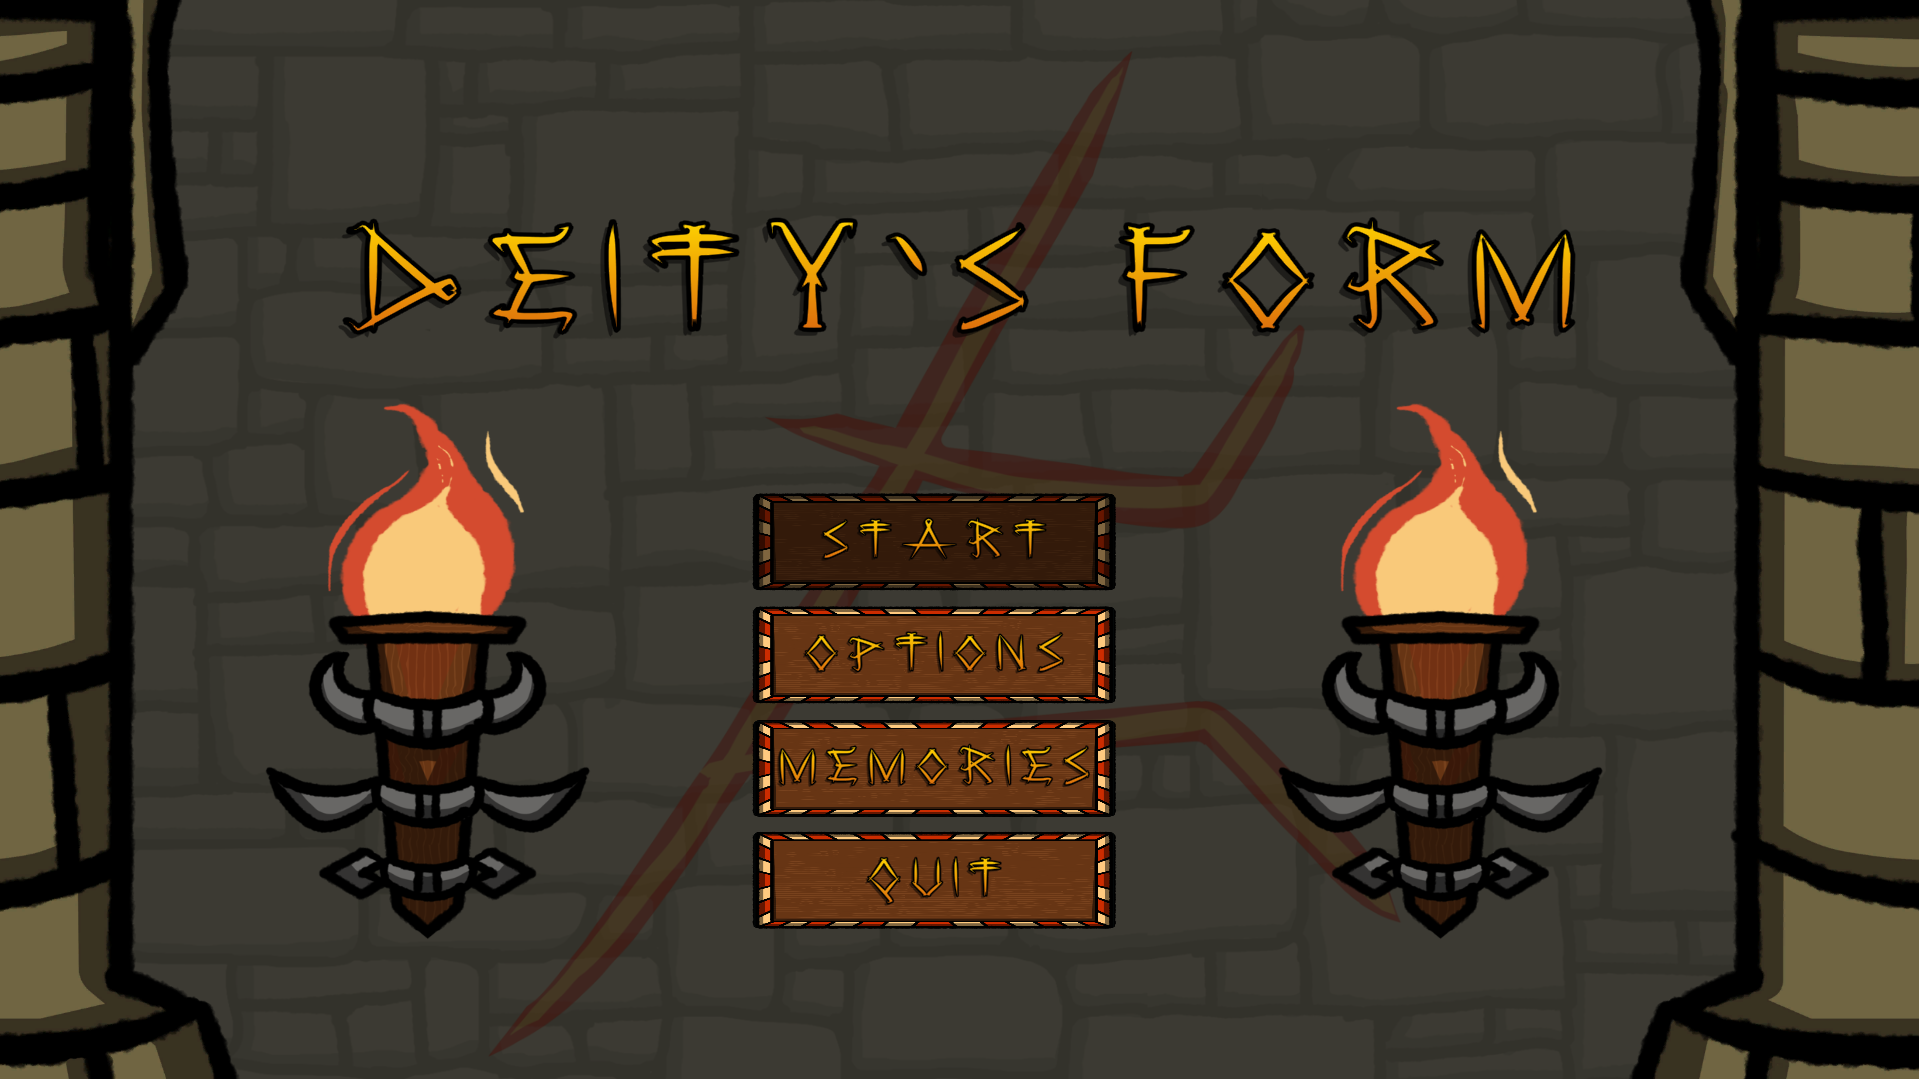
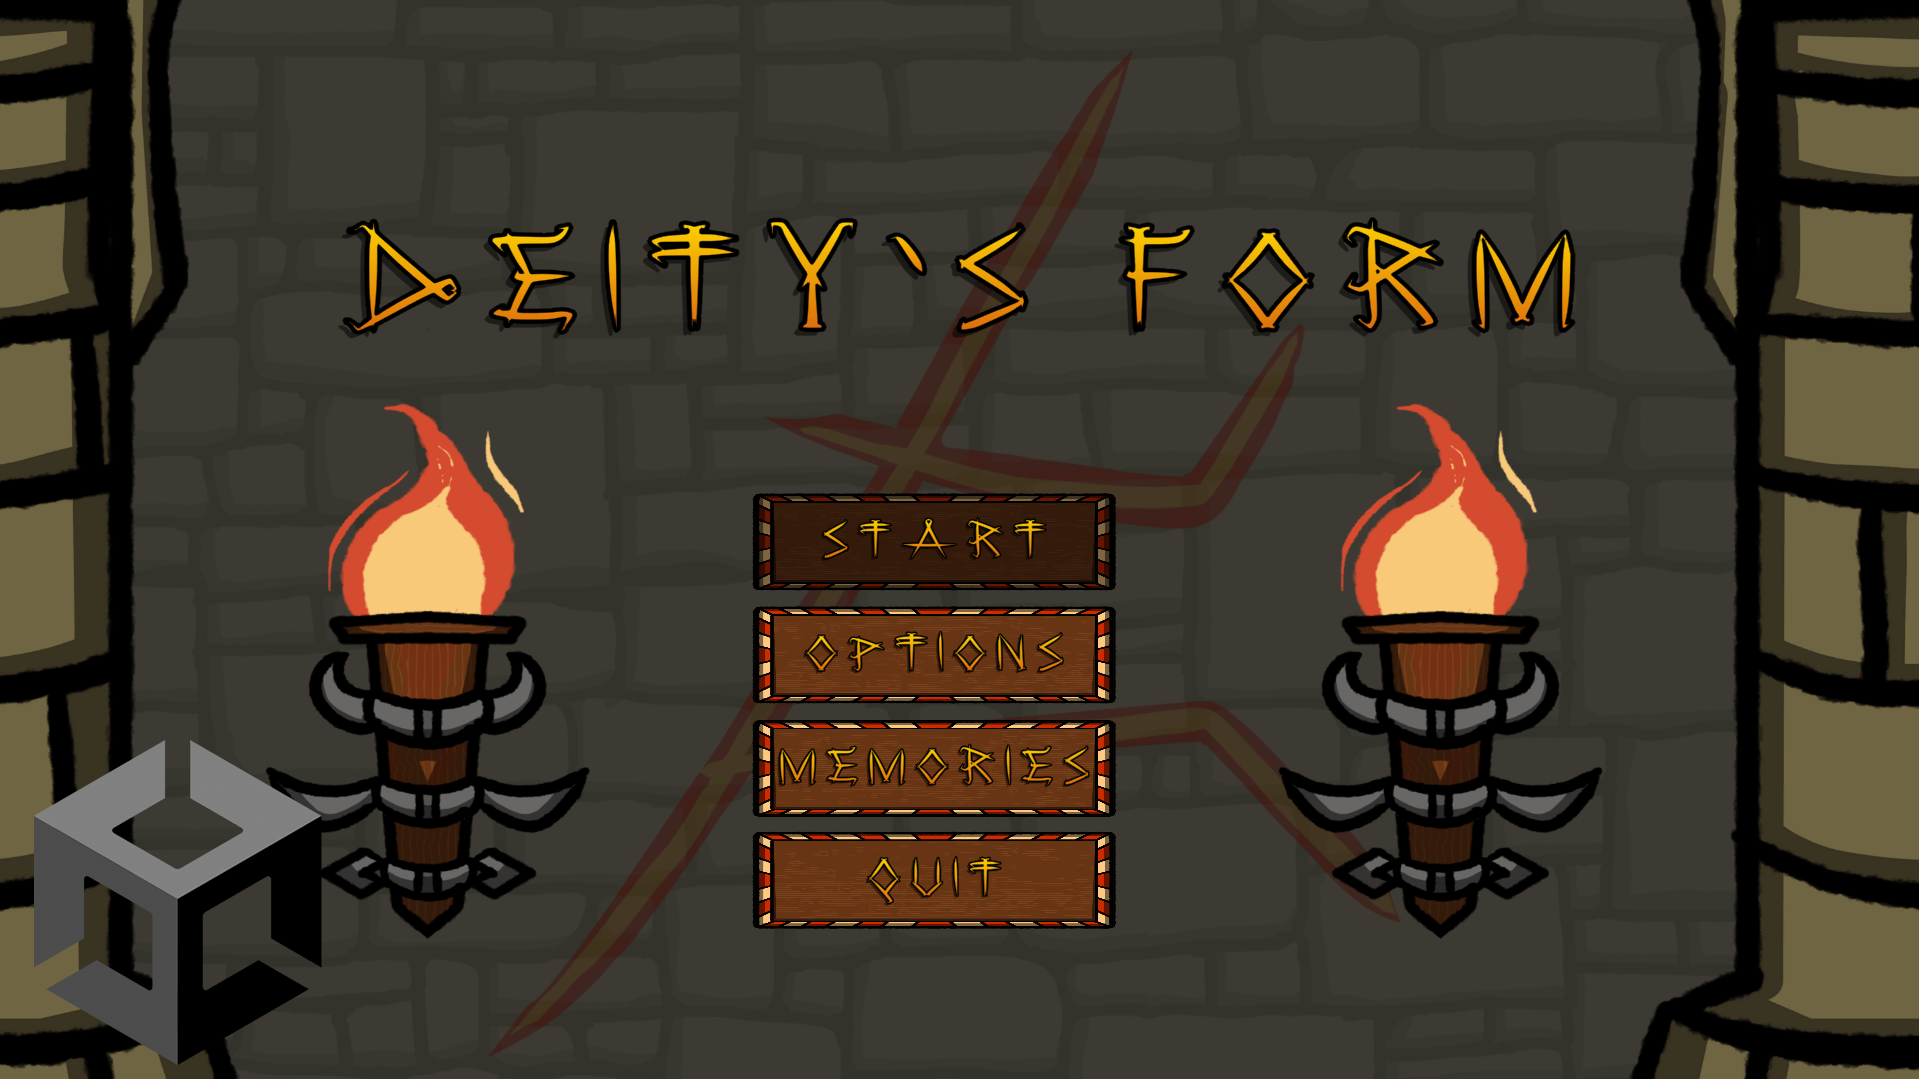
Thumbnail update & Sheep Sling inclusion

Changed region(s): [[0.0, 0.6728, 0.1845, 0.9787]]

diff --git a/Sheep_Sling.html b/Sheep_Sling.html
@@ -1,0 +1,47 @@
+<!DOCTYPE html>
+
+<html>
+<head>
+<link rel="stylesheet" href="michael.css" />
+<meta name="viewport" content="width=device-width, initial-scale=1" />
+</head>
+<body>
+	<div class="vertical-flex">
+		<div class="title">Michael Dunne</div>
+		<div class="navbar">
+			<a class="navbar-link" href="index.html">Games I've created</a>
+			<a class="navbar-link" href="about.html">About me</a>
+		</div>
+		
+		<h1 class="page-title">
+			Sheep Sling
+		</h1>
+		<div class="subtitle">
+			Solo Project
+		</div>
+		<div class="subtitle">
+		<a class="more-info" href="https://michaeldunne.itch.io/sheep-sling">Play Here</a>
+		</div>
+		<div class="subtitle">
+			<a class="more-info" href="https://github.com/NoLivesRemaining/Sheep-Sling">Github Here</a>
+			</div>
+		<div class="image-word-split">
+			<div class="flex-25vw">
+			<img class="in-page-sidebar-image" src="images\SheepSling\One.png">
+			<img class="in-page-sidebar-image" src="images\SheepSling\Two.png">
+			<img class="in-page-sidebar-image" src="images\SheepSling\Three.png">
+			</div>
+			<div class="flex-25vw">
+				<div class="main-text">
+
+<p>
+
+</p><p>
+
+</p>
+				</div>
+			</div>
+		</div>
+	</div>
+</body>
+</html>

diff --git a/index.html b/index.html
@@ -31,6 +31,25 @@
 				</div>
 			</div>
 		</div>
+		<div class="game"></div>
+			<a href="Sheep_Sling.html"><img class="sidebar-image" src="images\SheepSling\Main.png" ,alt="Sheep Sling image"></a>
+			<div class="game-sidebar">
+				<div class="game-sidebar-game-info">
+					<h3><a href="Sheep_Sling.html" class="game-index-title">
+						Sheep Sling
+					</a></h3>
+					<h4><div class="game-index-subtitle">
+						Solo Project
+					</div></h4>
+					<div class="description">
+						A simple, casual game made where you bounce cute sheep back into their pen.
+					</div>
+				</div>
+				<div class="right-aligned-flexbox">
+					<a class="more-info" href="Sheep_Sling.html">More Info</a>
+				</div>
+			</div>
+		</div>
 		<div class="game">
 			<a href="Deitys_Form.html"><img class="sidebar-image" src="images\DeitysForm\TitleScreen.png" ,alt="DeitysForm image"></a>
 			<div class="game-sidebar">
